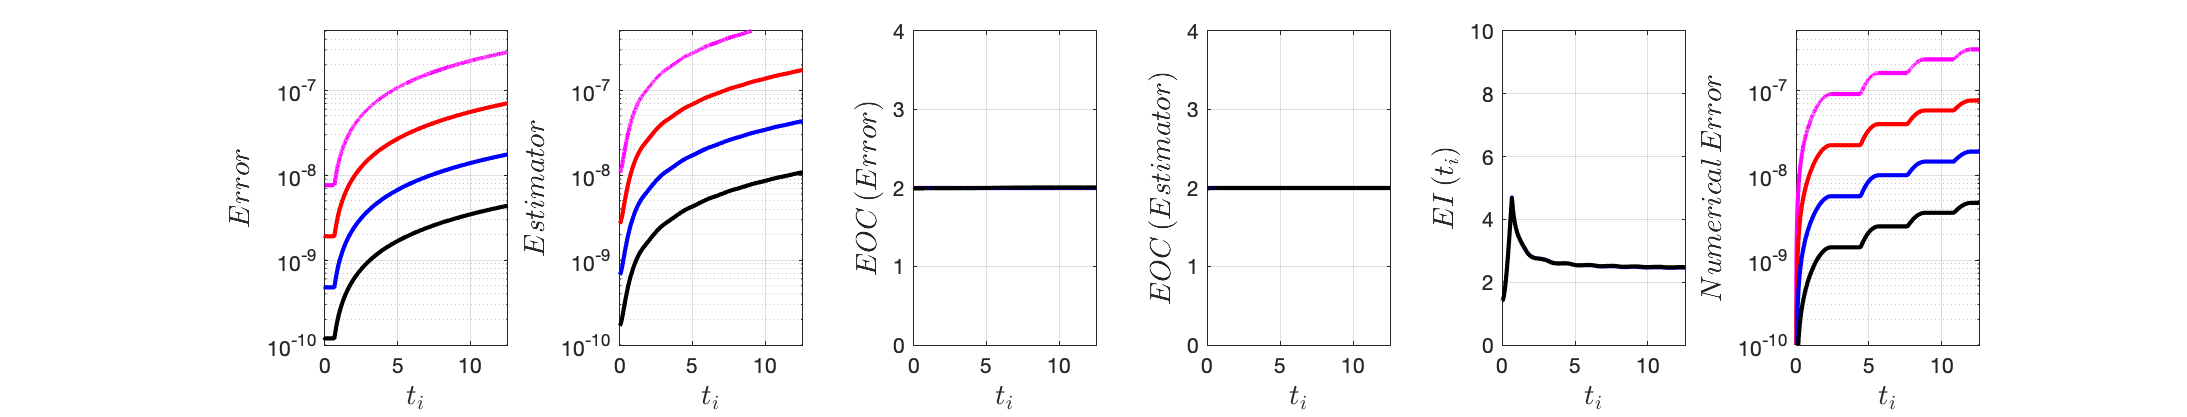
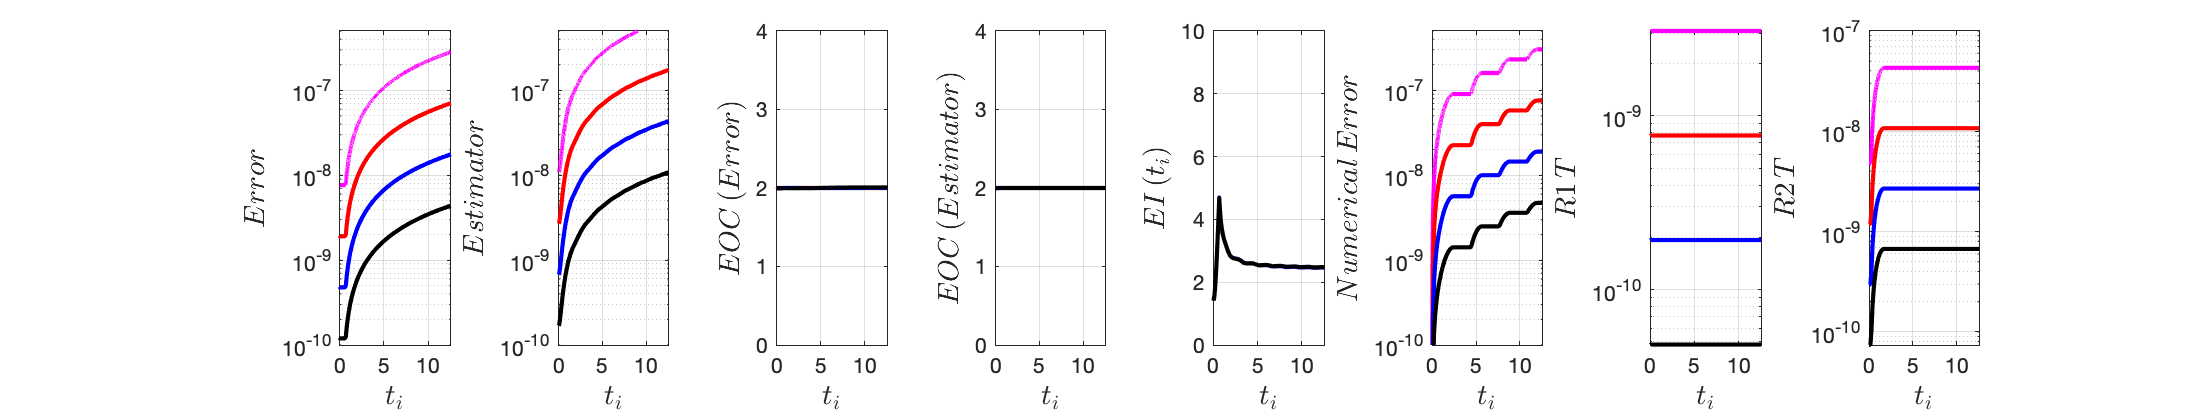
only two reconstructions tested plus discussion

diff --git a/temporal_reconstruction_thesis_chapter.tex b/temporal_reconstruction_thesis_chapter.tex
@@ -360,9 +360,16 @@ The reconstructions for $\rec{U}$ and $\rec{V}$ in \cite[\S3.1]{georgoulis2016po
 	\end{aligned}
 	\end{equation}
 \end{Rem}
-
+We will now present polynomial reconstructions.  Firstly, we will define the space in which they belong. 
+\begin{Defn}[Space of piecewise polynomials]\label{defn_space_pwpoly}
+	Let $\polygs{q}{\qb{t^{n-1},t^n}}{\mathbb{R}}$ denote the space of real-valued polynomials of degree $q$ in the interval $\qb{t^{n-1}, t^n}$.  Then, we define 
+	\begin{equation}
+	\mathbb{V}_q:=\bracegs{w:\qb{0,T}\rightarrow\mathbb{R}: w|_{\qb{t^{n-1},t^n}}\in \polygs{q}{\qb{t^{n-1},t^n}}{\mathbb{R}}}
+	\end{equation}
+	to be the space of piecewise polynomials of degree $q$.
+\end{Defn}
 \begin{Defn}[Polynomial version of the reconstruction from \cite{georgoulis2016posteriori}]\label{defn_rec_paper_poly}
-	The polynomial version of the reconstructions in Defn. \ref{defn_rec_paper} are given by 
+	The polynomial versions of the reconstructions in Defn. \ref{defn_rec_paper} are given by the functions $\rec{U}\in \mathbb{V}_2$: $\rec{V}\in\mathbb{V}_2$ 
 	\begin{equation}\label{eq_rec_paper_poly_alternative}
 	\begin{aligned}
 	\hat{U}|_{\qb{t^{n} t^{n+1}}}\qp{t}&=c_{0,u}+c_{1,u}\qp{t-t^{n}}+c_{2,u}\qp{t-t^{n}}^2\quad \text{and}\\
@@ -379,7 +386,7 @@ The reconstructions for $\rec{U}$ and $\rec{V}$ in \cite[\S3.1]{georgoulis2016po
 \end{aligned}
 	\end{equation}
 	or alternatively these conditions
-	\begin{equation}
+	\begin{equation}\label{eq_alt_conds_paperrec}
 	\begin{aligned}
 	&\rec{U}|_{\qb{t^n,t^{n+1}}}\qp{t^i}=U^i \quad \text{for}\quad i= n, n+1,\\
 	&\rec{U}''|_{\qp{t^n,t^{n+1}}}\qp{t}=\frac{1}{2\Delta t}\qp{V^{n+3/2}-V^{n-1/2}}=-\frac{1}{2}\qp{U^{n+1}+U^n}\\%=-\frac{1}{2}\qp{U^{n+1}+U^n}\\
@@ -400,15 +407,10 @@ The reconstructions for $\rec{U}$ and $\rec{V}$ in \cite[\S3.1]{georgoulis2016po
 	\end{aligned}
 	\end{equation}
 \end{Defn}
+\begin{Rem}[Alternative set of conditions for (\ref{eq_rec_paper_poly_alternative})]
+The reason for presenting an additional set of conditions, (\ref{eq_alt_conds_paperrec}), for (\ref{eq_rec_paper_poly_alternative}) is to facilitate a more direct comparison between this reconstruction and (\ref{eq_rec3_conds}), where $\rec{U}$ is obtained by using a condition on the second derivative.
+\end{Rem}
 
-In order to present our reconstructions we  define the space in which they belong. 
-\begin{Defn}[Space of piecewise polynomials]\label{defn_space_pwpoly}
-	Let $\polygs{q}{\qb{t^{n-1},t^n}}{\mathbb{R}}$ denote the space of real-valued polynomials of degree $q$ in the interval $\qb{t^{n-1}, t^n}$.  Then, we define 
-	\begin{equation}
-	\mathbb{V}_q:=\bracegs{w:\qb{0,T}\rightarrow\mathbb{R}: w|_{\qb{t^{n-1},t^n}}\in \polygs{q}{\qb{t^{n-1},t^n}}{\mathbb{R}}}
-	\end{equation}
-	to be the space of piecewise polynomials of degree $q$.
-\end{Defn}
 
 \begin{Defn}[ ]\label{defn_our_rec3}
 	The reconstruction, $\qp{\rec{U},\rec{V}}$ of the numerical solution $\qp{U,V}$ of (\ref{eq_harmonic_discretization}) on a staggered grid consists of the unique functions $\rec{U}\in \mathbb{V}_2$, $\rec{V}\in\mathbb{V}_3$ satisfying
@@ -434,7 +436,7 @@ In order to present our reconstructions we  define the space in which they belon
 	\end{equation}
 \end{Defn}
 
- 
+ \/*
 \begin{Defn}[ ]\label{defn_our_rec}
 	The reconstruction, $\qp{\rec{U},\rec{V}}$ of the numerical solution $\qp{U,V}$ of (\ref{eq_harmonic_discretization}) consists of the unique functions $\rec{U}\in \mathbb{V}_2$, $\rec{V}\in\mathbb{V}_2$ satisfying
 	\begin{equation}
@@ -484,6 +486,7 @@ c_{3,v} &= \frac{1}{2}\qp{V^{n+1/2}+V^{n+3/2} }-c_{0,v}- c_{1,v}\Delta t- c_{2,v
 \begin{Rem}[Conditions for $\hat{\textbf{V}}$ from Defn. \ref{defn_our_rec2}]
 Two of the coefficients for $\rec{V}$ in Defn. \ref{defn_our_rec2} come from nodal equivalence.  We define the remaining two coefficients  by imposing, in an approximate sense, the relation between $\rec{V}$ and $\rec{U}'$ that is indicated by the second equation in (\ref{eq_harmonic_perturbed}).  This is an effort to make the bound sharper. The reason we stop here rather than opting for a minimization approach is to keep the framework as general as possible rather than optimizing it for a specific problem.
 \end{Rem}
+*/
 \subsection{Error equation and estimators}\label{subsec_error_estimators}
 \begin{Defn}[Errors]\label{defn:errors}
 We define the following error equations for $u$ and $v$ as
@@ -519,14 +522,19 @@ Notice that the PDE system satisfied by the error equations (\ref{eq_err_rec_uv}
 \mathcal{R}_2&:=\hat{V}-V_1-\rho_V,
 \end{aligned}
 \end{equation}
-whereas for the reconstruction in Defn. \ref{defn_our_rec}, these are given by
+whereas for the reconstruction in Defn. \ref{defn_our_rec3}, these are given by
 \begin{equation}\label{eq_residuals_our}
 \begin{aligned}
 \mathcal{R}_1&:=\hat{V}'+\hat{U}\\
 \mathcal{R}_2&:=\hat{U}'-\hat{V}.
 \end{aligned}
 \end{equation}
-The reconstruction residuals are used in the computation of the bound in \cite[Thm 3.1]{georgoulis2016posteriori}. In order to present this result we will first introuce some notation.
+The reconstruction residuals are used in the computation of the bound in \cite[Thm 3.1]{georgoulis2016posteriori}, which we present in Thm. \ref{thm:bound}.
+\begin{Rem}[Set of residuals used in testing]
+	In order to establish a clear comparison for the performance of the reconstructions, we will be using the residulas given by (\ref{eq_residuals_our}) for both of the reconstructions we will test.
+\end{Rem}
+
+
 
 Let $\Phi=\qp{\phi_1, \phi_2}$, $\Psi =\qp{\psi_1,\psi_2}\in D\qp{\mathcal{A}}\times H$ where $D\qp{\mathcal{A}}$ and $H$ are defined in \S \ref{sec:setup}.  The inner product used in the computation is the standard energy inner product on $\qb{D\qp{\mathcal{A}}\times H}^2$
 \begin{equation}\label{defn_innerprod}
@@ -552,7 +560,7 @@ This leads us to the main result from \cite[Thm 3.1]{georgoulis2016posteriori}. 
 	0\leq \qp{\sqrt{\epsilon}a-\frac{1}{2\sqrt{\epsilon}b}}^2\implies ab\leq \epsilon a^2 +\frac{1}{4\epsilon}b^2
 	\end{equation*}
 \end{proof}
-\begin{Thm}[A-posteriori error bound for (\ref{eq_model_problem})]
+\begin{Thm}[A-posteriori error bound for (\ref{eq_model_problem})]\label{thm:bound}
 Let $u$ be the solution of (\ref{eq_model_problem}), $\hat{e}_u:=u-\rec{U}$ and $\hat{e}_v:=v-\rec{V}$ .  Then the following a posteriori error estimate holds
 \begin{equation}\label{eq_bound}
 \sup_{t\in\qb{0,t^N}}\pnorm{\qp{\hat{e}_U,\hat{e}_V}\qp{t}}^2\leq
@@ -615,7 +623,7 @@ Using (\ref{eq_cauchy_ineq_eps}) with $\epsilon=1$, $a=\int_0^\tau\pnorm{\qp{\ma
 \end{proof}
 
 \begin{Rem}[The error at $t=0$]
-	Notice the constant $2\pnorm{\qp{\hat{e}_U,\hat{e}_V}\qp{0}}^2$ in (\ref{eq_bound}).  The significance of this is that the initial error, depending on the chosen reconstruction, may not be $0$.  This is the case of the reconstruction by \cite{georgoulis2016posteriori}.
+	Notice the constant $2\pnorm{\qp{\hat{e}_U,\hat{e}_V}\qp{0}}^2$ in (\ref{eq_bound}).  The significance of this is that the initial error, depending on the chosen reconstruction, may not be $0$.  This isbecause of the use of a staggered grid.
 \end{Rem}
 
 Before we proceed we will prove an additional bound.  In order to do this we will use an addional result
@@ -636,7 +644,7 @@ then
 	\pnorm{\qp{\hat{e}_U,\hat{e}_V}\qp{0}}+
 	2{\int_0^{t^N}\pnorm{\qp{\mathcal{R}_2,\mathcal{R}_1}}\mathrm{d}t},
 	\end{equation}
-	where $\mathcal{R}_1$ and $\mathcal{R}_2$ are defined in (\ref{eq_residuals_paper}) or (\ref{eq_residuals_our}).
+	where $\mathcal{R}_1$ and $\mathcal{R}_2$ are defined in (\ref{eq_residuals_our}).
 \end{Lemma}
 \begin{proof}
 We use  Lemma  \ref{lemma:L2_simplification} with $\vect{a}=\frac{1}{\sqrt{2}}\pnorm{\qp{\hat{e}_U, \hat{e}_V}\qp{\tau}}$, $\vect{b}=\sqrt{2}\int_0^\tau\pnorm{\qp{\mathcal{R}_2,\mathcal{R}_1}\qp{t}} \mathrm{d}t$ and $c = \frac{1}{\sqrt{2}}\pnorm{\qp{\hat{e}_U, \hat{e}_V}\qp{0}}$ and we obtain the required result.
@@ -650,7 +658,7 @@ The objectives in this section are to study the performance of the indicator
 \eta_1=\qp{2\pnorm{\qp{\hat{e}_U,\hat{e}_V}\qp{0}}^2+
 	4\qp{\int_0^{t^N}\pnorm{\qp{\mathcal{R}_2,\mathcal{R}_1}}\mathrm{d}t}^2}^{1/2}
 \end{equation}
-for the reconstructions in Defns. (\ref{defn_rec_paper}), (\ref{defn_our_rec}) and (\ref{defn_our_rec2}) and to compare the relative performance of the reconstructions in replicating the behaviour of the error.  To this extend we introduce the error
+for the reconstructions in Defns. (\ref{defn_rec_paper}) and (\ref{defn_our_rec3})  and to compare their performance. To this extend we introduce the error
 \begin{equation}\label{eq_error_eR}
 e_R :=\qp{\hat{e}_U,\hat{e_V}},
 \end{equation}
@@ -1215,14 +1223,16 @@ V^{1/2} &= \frac{1}{\Delta t}\qp{U^1-U^0}.
 
 
 \section{Discussion}\label{sec:discussion}
-In this section we discuss the findings from the numerical experiments.  Briefly, we tested the aposterior bound (\ref{eq_bound_test}) with three different reconstructions: Defns. \ref{defn_our_rec}, \ref{defn_our_rec2} and the one from \cite{georgoulis2016posteriori}, given in (\ref{eq_rec_paper}).  The error was measured in the $L^{\infty}-$norm in time. 
+In this section we discuss the findings from the numerical experiments.  Briefly, we tested the aposterior bound (\ref{eq_bound_test}) with two different reconstructions: \ref{defn_rec_paper_poly} from \cite{georgoulis2016posteriori} and the reconstruction form Defn. \ref{defn_our_rec3} . The error was measured in the $L^{\infty}-$norm in time. 
 
- We investigated the temporal evolution of the error (\ref{eq_error_eR})  and the bound (\ref{eq_bound_test}) and we compared the performances of the three reconstructions in terms of their EOCs and the Effectivity index.
+ We investigated the temporal evolution of the error (\ref{eq_error_eR})  and the bound (\ref{eq_bound_test}) and we compared the performances of the  reconstructions in terms of their EOCs and the Effectivity index.
 
-Firstly,  all three reconstructions were of optimal order in all numerical experiments in \S \ref{sec:num_exp}. This means that all of them converged with the same order as the underlying error of the numerical scheme.  
-Additionally, all three reconstructions lead to robust a posteriori estimates in the sense that there is no constant in the estimate that goes to infinity  while the true error is finite.
+Firstly,  both reconstructions were of optimal order in all numerical experiments in \S \ref{sec:num_exp}. This means that they both converged with the same order as the underlying error of the numerical scheme.  
+Additionally, the both lead to robust a posteriori estimates, in the sense that there is no constant in the estimate that goes to infinity  while the true error is finite.
 
-The difference between the three reconstructions is in terms of their efficiency.  The reconstruction (\ref{eq_rec_paper}) led to a sharper estimate for the bound (\ref{eq_bound_test}) compared to the reconstructions from Defns. \ref{defn_our_rec} and \ref{defn_our_rec2}.  This can be seen from the Effectivity Index (last subplot on the right) in the figures in \S\ref{sec:num_exp}.
+The difference between them reconstructions is in terms of their efficiency.  The reconstruction in (\ref{eq_rec_paper}) led to a sharper estimate for the bound (\ref{eq_bound_test}) compared to the reconstructions from Defn.  \ref{defn_our_rec3}.  This can be seen from the Effectivity Index (last subplot on the right) in the figures in \S\ref{sec:num_exp}.  
+
+In order to understand why this is, we substitute the exact solution in both (\ref{eq_rec_paper_poly_alternative}) and in the reconstruction in Defn.(\ref{defn_our_rec3}).  In both cases, the lead contributor to the bound  (\ref{eq_bound_test}) is the term $\mathcal{R}_2$ in (\ref{eq_residuals_our}), which is $\mathcal{O}\qp{\Delta t^2}$ in the bound.  However, in the case of (\ref{eq_rec_paper_poly_alternative}) the constant in front of this term is smaller compared to that in Defn. \ref{defn_our_rec3}.  This can be confirmed by visually inspecting the last two plots on the right for any of the Figures in \S \ref{sec:num_exp}, which illustrate the evolution of $\mathcal{R}_1$ and $\mathcal{R}_2$.  
 
 
 \bibliography{apostfd_bibdesk}
